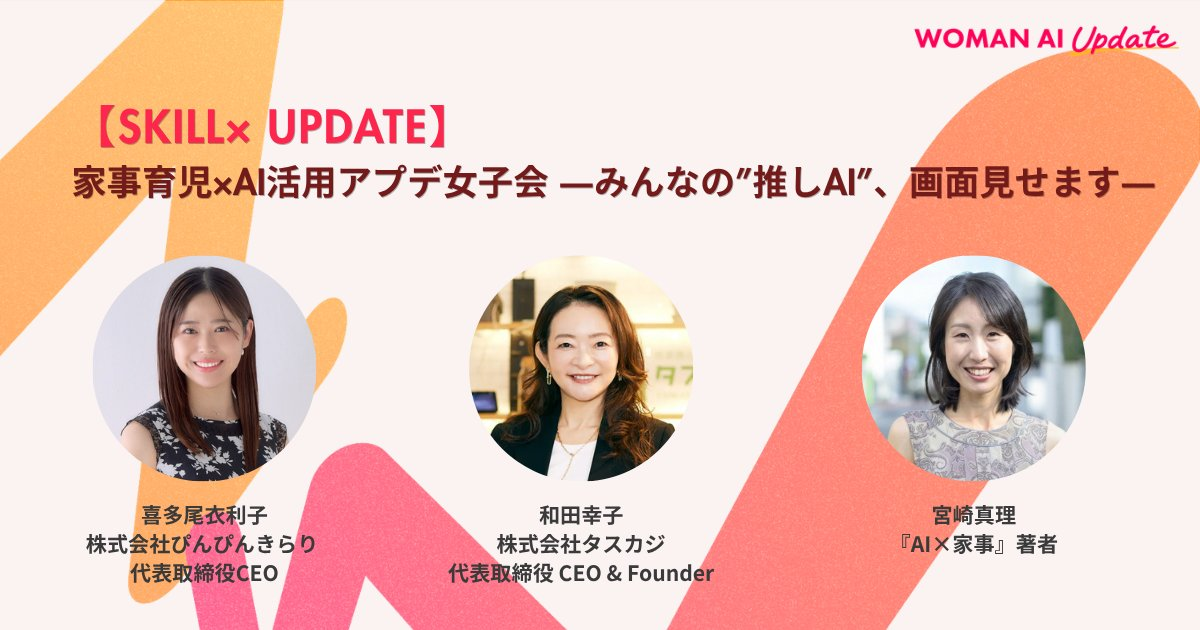
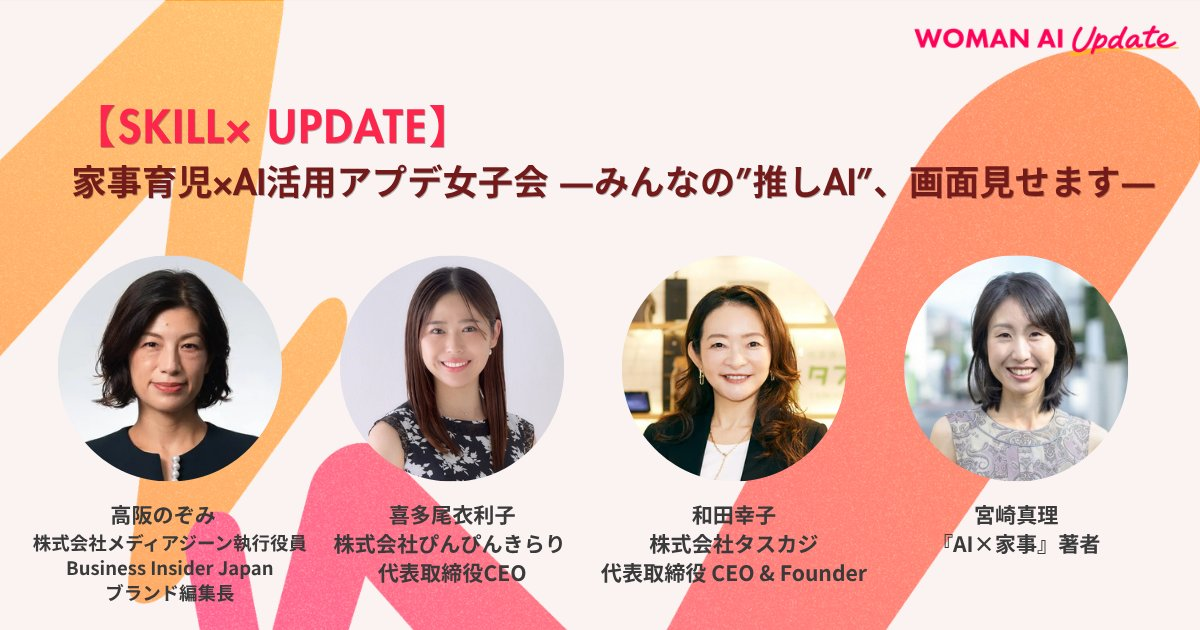
WOMAN AI UPDATEイベントの画像を4名登壇の告知ビジュアルに差し替え
- event_woman_ai_update_20260912.jpg を頂いた4名版に更新（トップNEWS・イベント一覧の2箇所で使用）
- alt テキストを新ビジュアルに合わせて更新
- サンクチュアリ出版イベントの event-format から「（終了）」を削除（他の過去イベント表記に合わせる）
- 注目イベントの説明文の「3人」を「登壇者」に

Changed region(s): [[0.0308, 0.3921, 0.9558, 0.9651]]

diff --git a/index.html b/index.html
@@ -3807,13 +3807,13 @@
       </div>
       <a class="news-featured-event reveal" href="https://woman-ai-update.jp/" target="_blank" rel="noopener">
         <div class="news-featured-image-wrap">
-          <img class="news-featured-image" src="event_woman_ai_update_20260912.jpg" alt="喜多尾衣利子・和田幸子・宮崎真理登壇『家事育児×AI活用アプデ女子会 ―みんなの推しAI、画面見せます―』WOMAN AI UPDATE 2026 SKILL×UPDATE">
+          <img class="news-featured-image" src="event_woman_ai_update_20260912.jpg" alt="『家事育児×AI活用アプデ女子会 ―みんなの推しAI、画面見せます―』告知ビジュアル。高阪のぞみ・喜多尾衣利子・和田幸子・宮崎真理が登壇｜WOMAN AI UPDATE 2026（SKILL × UPDATE）">
         </div>
         <div class="news-featured-content">
           <span class="news-featured-badge">9.12 参加受付中</span>
           <p class="news-featured-speakers">『AI×家事』著者 宮崎真理 × 喜多尾衣利子 × 和田幸子</p>
           <h3 class="news-featured-title">家事育児×AI活用<br>アプデ女子会</h3>
-          <p class="news-featured-description">「みんなの“推しAI”、画面見せます」。3人がそれぞれの実際のAI活用画面を見せながら語る、実演型のトークセッションです。</p>
+          <p class="news-featured-description">「みんなの“推しAI”、画面見せます」。登壇者がそれぞれの実際のAI活用画面を見せながら語る、実演型のトークセッションです。</p>
           <p class="news-featured-meta">
             <span>2026.9.12 SAT｜12:40–</span>
             <span>WOMAN AI UPDATE 2026（SKILL × UPDATE）</span>
@@ -4146,7 +4146,7 @@
           <h3 class="media-category-title">イベント・ライブ配信</h3>
         </div>
         <a class="event-card event-card--upcoming event-card--visual" href="https://woman-ai-update.jp/" target="_blank" rel="noopener">
-          <img class="event-image" src="event_woman_ai_update_20260912.jpg" alt="喜多尾衣利子・和田幸子・宮崎真理登壇『家事育児×AI活用アプデ女子会 ―みんなの推しAI、画面見せます―』WOMAN AI UPDATE 2026 SKILL×UPDATE" loading="lazy">
+          <img class="event-image" src="event_woman_ai_update_20260912.jpg" alt="『家事育児×AI活用アプデ女子会 ―みんなの推しAI、画面見せます―』告知ビジュアル。高阪のぞみ・喜多尾衣利子・和田幸子・宮崎真理が登壇｜WOMAN AI UPDATE 2026（SKILL × UPDATE）" loading="lazy">
           <div class="event-info">
             <p class="event-format">参加申込受付中</p>
             <p class="event-host">WOMAN AI UPDATE 2026｜喜多尾衣利子 × 和田幸子 × 宮崎真理</p>
@@ -4158,7 +4158,7 @@
         <a class="event-card event-card--visual" href="https://www.sanctuarybooks.jp/event/detail/3782" target="_blank" rel="noopener">
           <img class="event-image" src="event_sanctuary_20260831.jpg" alt="宮崎真理と平理沙子のトークイベント『まさか私が、出版。まさか私が、出馬。』2026年8月31日開催" loading="lazy">
           <div class="event-info">
-            <p class="event-format">トークイベント登壇（終了）</p>
+            <p class="event-format">トークイベント登壇</p>
             <p class="event-host">サンクチュアリ出版｜宮崎真理 × 平理沙子</p>
             <p class="event-title">「まさか私が、出馬。まさか私が、出版。<br>3児の母ふたりが語る、AI時代のキャリアと選択肢」</p>
             <p class="event-date">2026.8.31 開催｜アーカイブ視聴あり</p>
